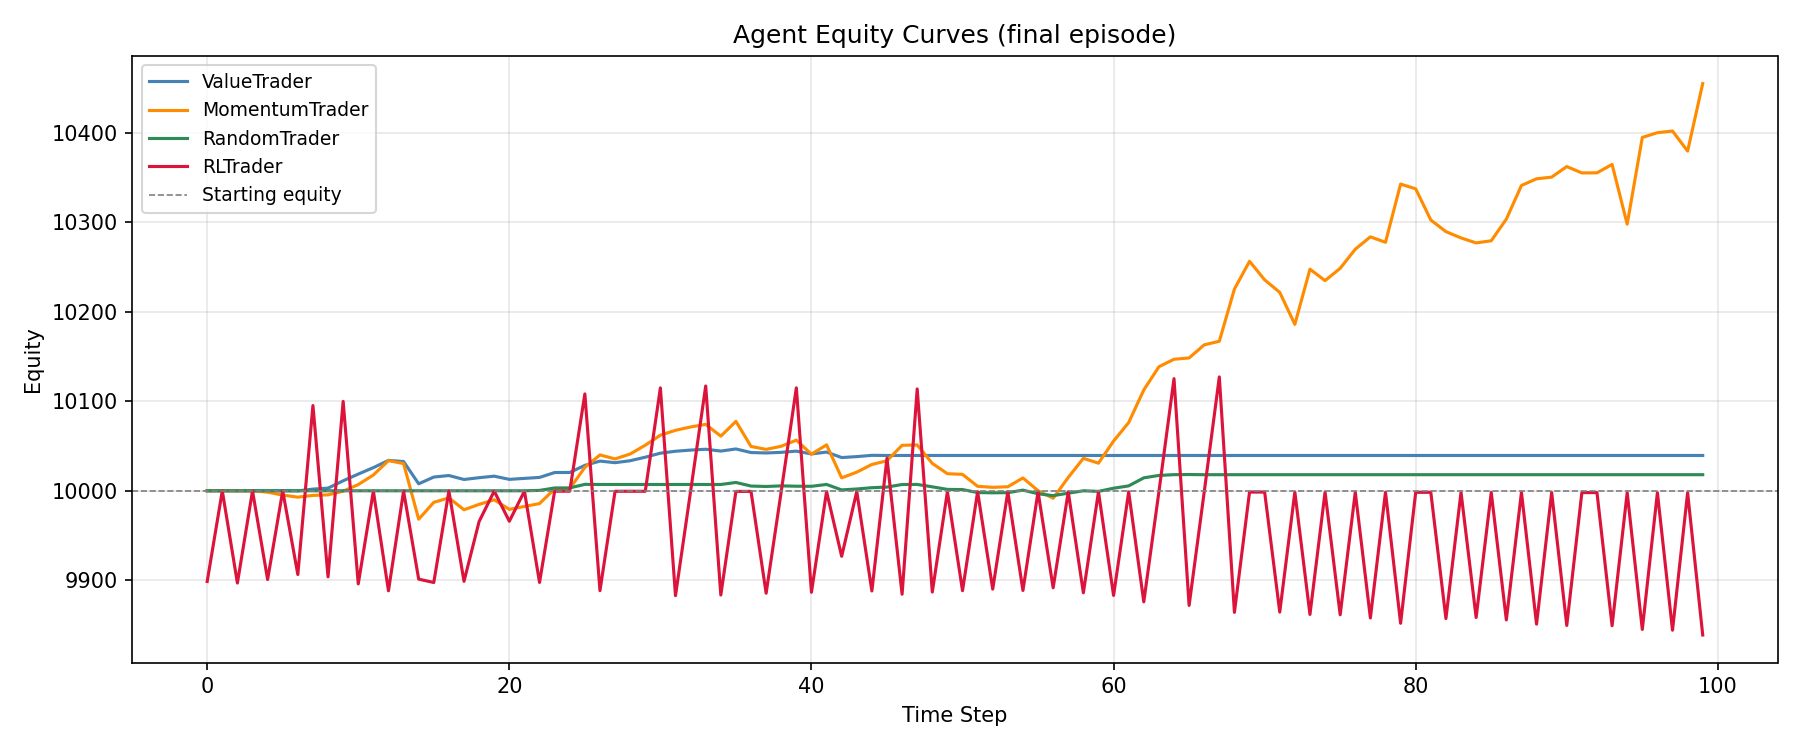
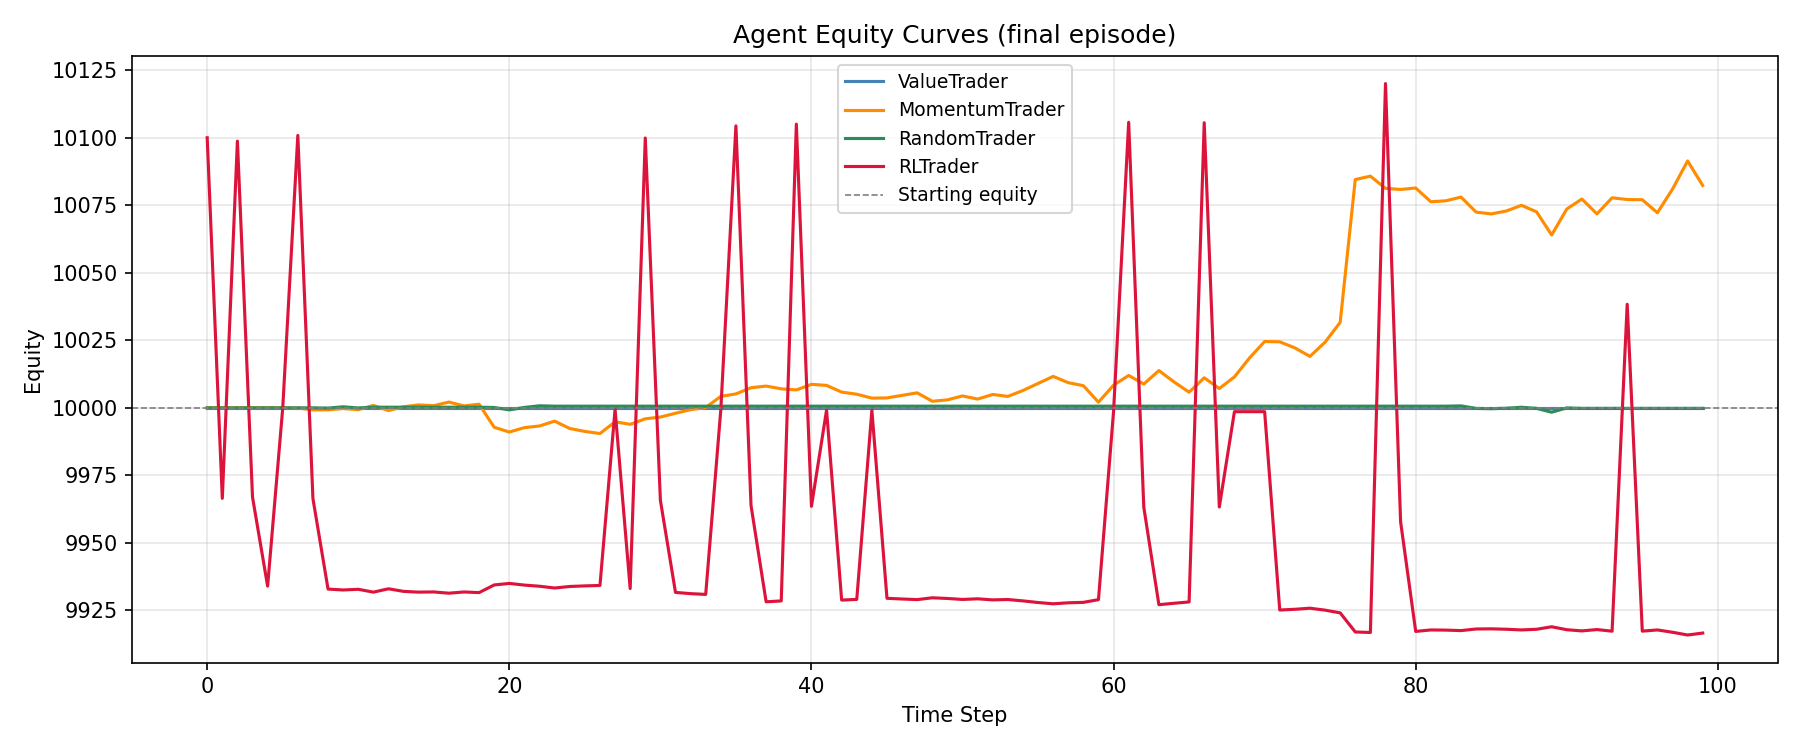
Introduce dynamic market impact and slippage into trading simulations
Update simulation and broker logic to calculate dynamic slippage based on market volatility, order flow, trade size, and liquidity, replacing the fixed slippage model.

Replit-Commit-Author: Agent
Replit-Commit-Session-Id: 3826bf3c-e3fd-4317-b321-61e418fea702
Replit-Commit-Checkpoint-Type: full_checkpoint
Replit-Commit-Event-Id: 3071c98b-25df-4fb1-8c8c-c53113e62f84
Replit-Helium-Checkpoint-Created: true

diff --git a/project/simulation/simulation.py b/project/simulation/simulation.py
@@ -103,31 +103,77 @@ class Simulation:
         # --- Microstructure parameters (tunable) -------------------------
         # All values in basis points (1 bp = 0.01%).
         self.spread_bps  = 10   # 0.10% half-spread each side
-        self.slippage_bps = 5   # 0.05% market impact per trade
         self.txn_cost_bps = 2   # 0.02% flat fee per trade
+
+        # --- Market impact parameters (tunable) --------------------------
+        # Dynamic slippage depends on volatility, order-flow pressure,
+        # trade size, and a liquidity proxy (rolling volume).
+        self.impact_vol_coeff  = 0.5   # slippage grows with equity volatility
+        self.impact_flow_coeff = 0.3   # slippage grows with order-flow imbalance
+        self.impact_size_coeff = 1.0   # slippage grows with exposure-change size
+        self.min_liquidity     = 1e-6  # floor to avoid division-by-zero
+
+        # Populated in run() so apply_microstructure() can read it.
+        self.current_state = None
 
     # ------------------------------------------------------------------
     # Microstructure helper
     # ------------------------------------------------------------------
 
-    def apply_microstructure(self, mid_price, side):
+    def apply_microstructure(self, mid_price, side, delta_exposure):
         """
         Compute the realistic execution price and flat transaction cost
         for a single RL-agent exposure adjustment.
 
+        Slippage is now dynamic and state-dependent:
+          - grows with current equity volatility
+          - grows with order-flow pressure (bid/sell imbalance)
+          - grows with the size of the exposure change
+          - grows when rolling volume (liquidity proxy) is thin
+
         Parameters
         ----------
-        mid_price : float  — current mid market price
-        side      : 'buy' or 'sell'
+        mid_price      : float  — current mid market price
+        side           : 'buy' or 'sell'
+        delta_exposure : float  — signed exposure change this step
 
         Returns
         -------
-        exec_price : float — price at which the trade executes (mid ± spread/2 ± slippage)
+        exec_price : float — price at which the trade executes
         txn_cost   : float — flat fee charged regardless of direction
         """
-        spread    = mid_price * (self.spread_bps  / 10_000)
-        slippage  = mid_price * (self.slippage_bps / 10_000)
-        txn_cost  = mid_price * (self.txn_cost_bps / 10_000)
+        state = self.current_state
+
+        # --- Static components -----------------------------------------
+        spread   = mid_price * (self.spread_bps  / 10_000)
+        txn_cost = mid_price * (self.txn_cost_bps / 10_000)
+
+        # --- Dynamic market impact slippage ----------------------------
+        # Volatility-based impact: higher realized vol → wider impact.
+        # Uses equity_vol from the previous step (lagged by one step because
+        # execute_exposure runs before the tracking section updates it).
+        equity_vol = getattr(state, "equity_vol", 0.0) if state else 0.0
+        vol_impact = equity_vol * self.impact_vol_coeff
+
+        # Order-flow imbalance impact: strong directional flow costs more.
+        pressure    = getattr(state, "pressure",    0.0) if state else 0.0
+        flow_impact = abs(pressure) * self.impact_flow_coeff
+
+        # Trade-size impact: larger exposure changes move the market more.
+        size_impact = abs(delta_exposure) * self.impact_size_coeff
+
+        # Liquidity adjustment: thin markets amplify all components.
+        # rolling_vol is the 20-bar average synthetic volume (raw, un-normalised).
+        rolling_vol = getattr(state, "rolling_vol", 0.0) if state else 0.0
+        liquidity   = max(rolling_vol, self.min_liquidity)
+        liq_factor  = 1.0 / liquidity
+
+        # Total impact (capped at 2% to prevent blow-up in the first 20 bars
+        # before rolling_vol has accumulated and liq_factor is still very large).
+        impact  = (vol_impact + flow_impact + size_impact) * liq_factor
+        impact  = min(impact, 0.02)
+
+        slippage = mid_price * impact
 
         if side == "buy":
             exec_price = mid_price + spread / 2 + slippage
@@ -272,6 +318,10 @@ class Simulation:
             self.broker.fill_resting_orders(price)
 
             # --- RL agent: ramp exposure toward target -------------------
+            # Store the current state so apply_microstructure() can read
+            # state.equity_vol / pressure / rolling_vol via self.current_state.
+            self.current_state = state
+
             # execute_exposure() returns the transaction cost it charged so
             # the reward calculation can subtract it in the same step.
             rl_txn_costs = {}

diff --git a/project/broker/broker.py b/project/broker/broker.py
@@ -101,17 +101,21 @@ class SimulatedBroker(Broker):
 
         side = "buy" if delta > 0 else "sell"
 
+        max_steps = 3
+        steps = int(round(abs(delta) * max_steps))
+        exposure_change = steps * (1.0 / max_steps)
+
+        # Signed exposure change this step — passed into apply_microstructure
+        # so the dynamic slippage model can scale with trade size.
+        delta_exposure = exposure_change if delta > 0 else -exposure_change
+
         # Apply microstructure friction when a pricing function is available.
         # exec_price is recorded on the agent for reference; the flat txn_cost
         # is deducted from balance and returned for the reward shaping.
         if microstructure_fn is not None:
-            exec_price, txn_cost = microstructure_fn(price, side)
+            exec_price, txn_cost = microstructure_fn(price, side, delta_exposure)
         else:
             exec_price, txn_cost = price, 0.0
-
-        max_steps = 3
-        steps = int(round(abs(delta) * max_steps))
-        exposure_change = steps * (1.0 / max_steps)
 
         if delta > 0:
             agent.position = min(1.0, agent.position + exposure_change)
